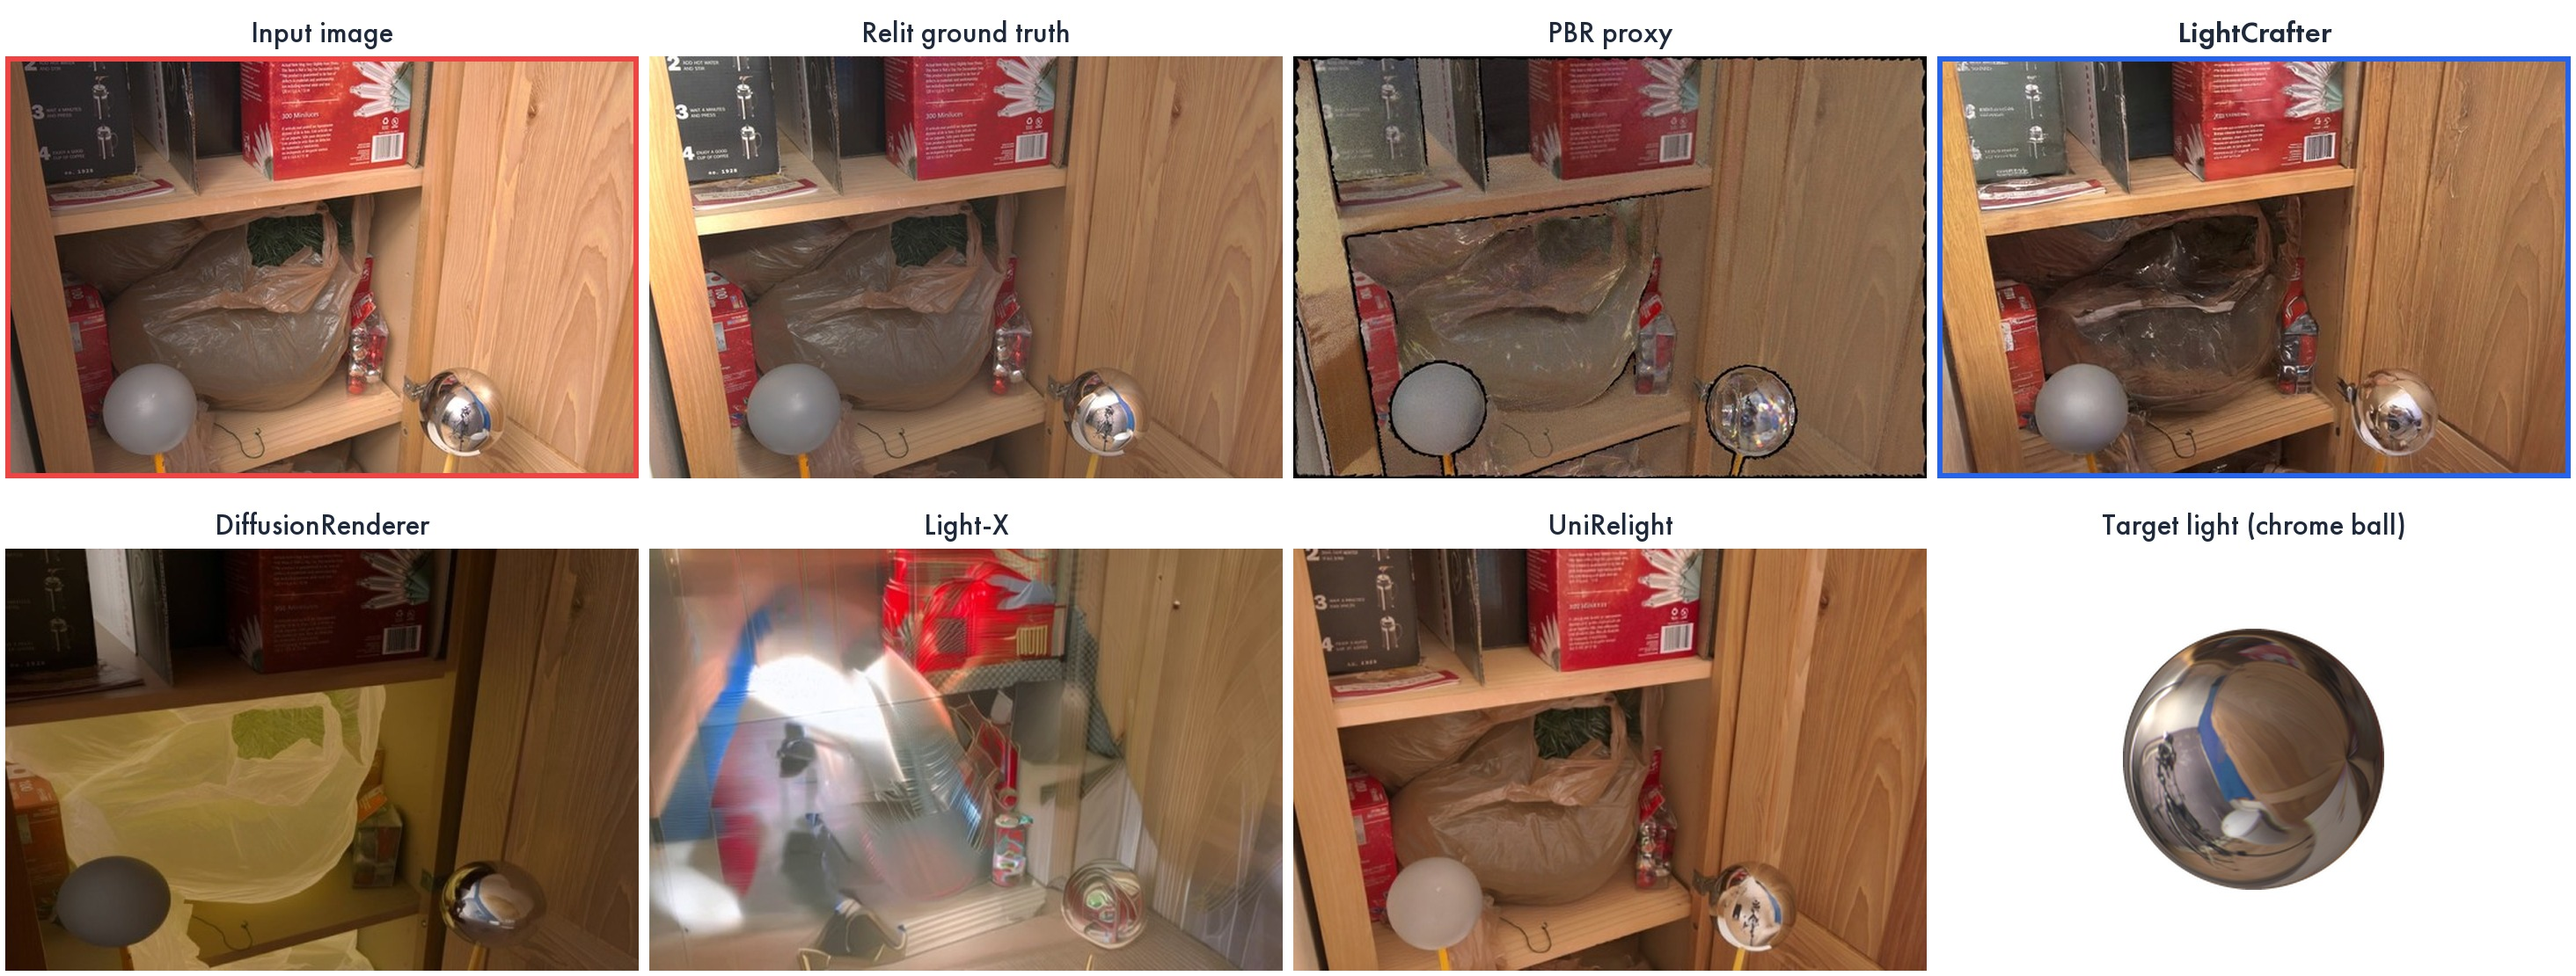
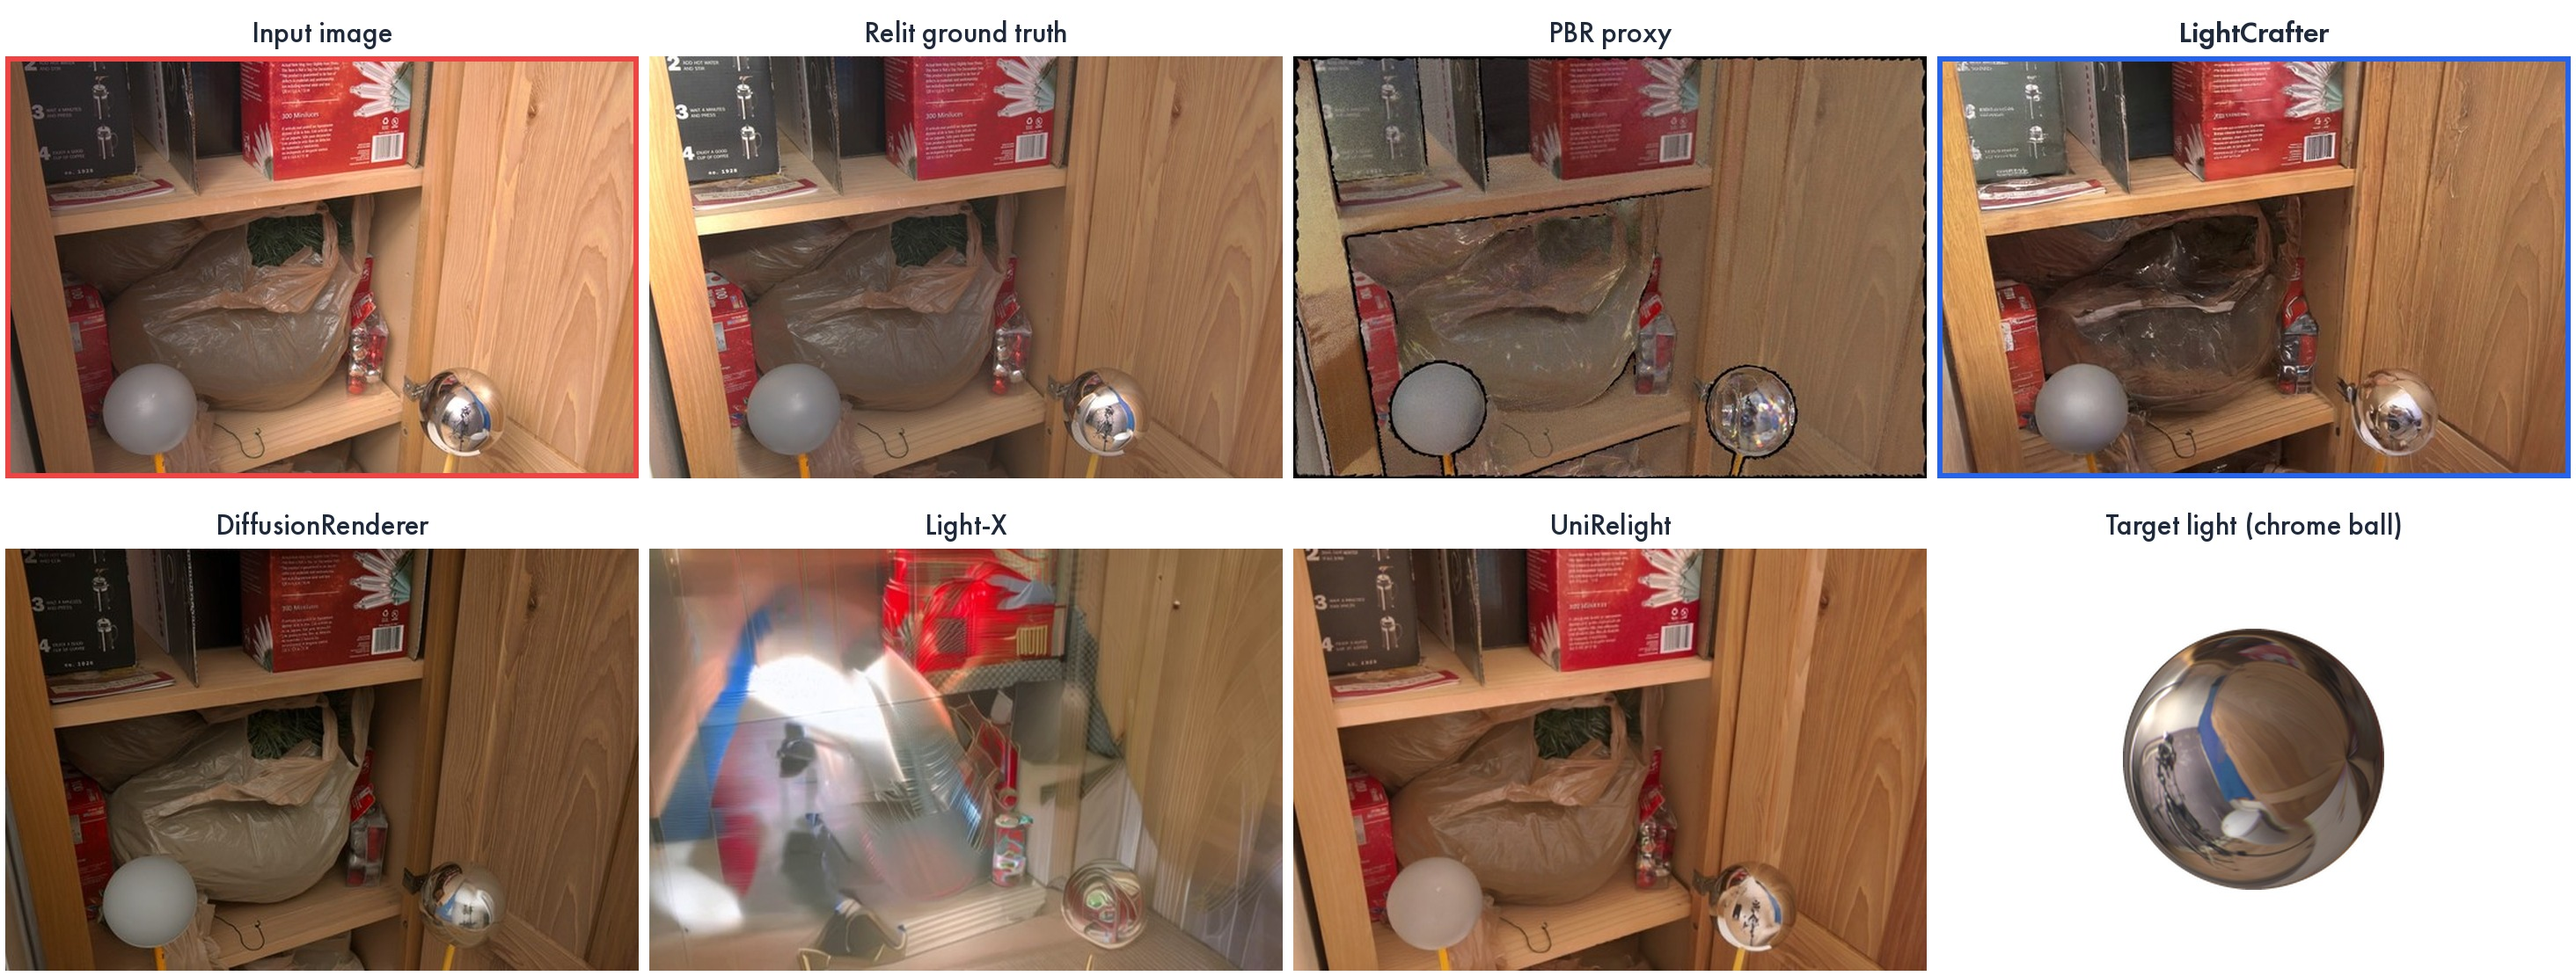
MIT comparison: restore DiffusionRenderer tile for everett_kitchen18 to the pre-rerun (submission) image and rebuild that grid

diff --git a/index.html b/index.html
@@ -388,15 +388,15 @@
   <div class="carousel">
         <div class="carousel-track">
           <div class="item"><div class="item-inner">
-            <img src="./static/videos/grids/mit/mit-everett_dining2.jpg?v=2" alt="">
+            <img src="./static/videos/grids/mit/mit-everett_dining2.jpg?v=3" alt="">
             <p class="subtitle">Scene: Kettle and board game.</p>
           </div></div>
           <div class="item"><div class="item-inner">
-            <img src="./static/videos/grids/mit/mit-everett_kitchen18.jpg?v=2" alt="">
+            <img src="./static/videos/grids/mit/mit-everett_kitchen18.jpg?v=3" alt="">
             <p class="subtitle">Scene: Cabinet shelves.</p>
           </div></div>
           <div class="item"><div class="item-inner">
-            <img src="./static/videos/grids/mit/mit-everett_kitchen2.jpg?v=2" alt="">
+            <img src="./static/videos/grids/mit/mit-everett_kitchen2.jpg?v=3" alt="">
             <p class="subtitle">Scene: Glass cabinet with bottles.</p>
           </div></div>
         </div>
